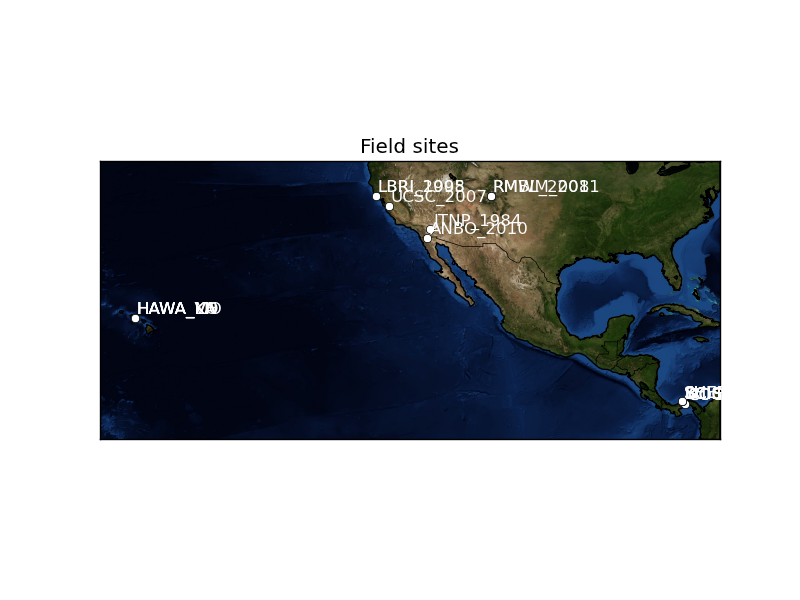
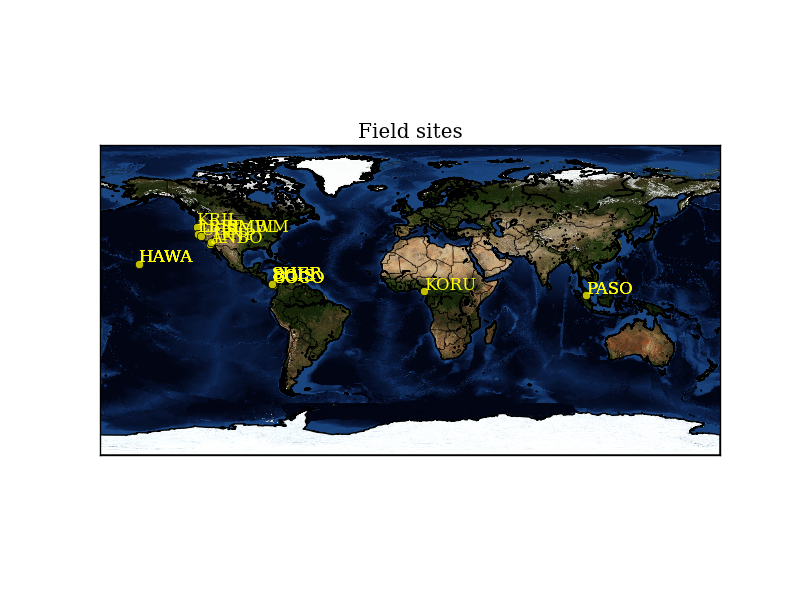
Mapping whole globe
More reliable mapping if we want to see the whole globe.

Still needs jitter-fixing.

Changed region(s): [[0.125, 0.21, 0.9062, 0.78]]

diff --git a/code/macroeco/workflow.py b/code/macroeco/workflow.py
@@ -265,7 +265,7 @@ class Parameters:
 def _clean_name(fp):
         return os.path.splitext(os.path.split(fp)[-1])[0]
 
-def make_map(datalist, mapname = None):
+def make_map(datalist, mapname = None, whole_globe = False):
     '''
     Ensures that a map of all the datasites being analyzed exists.
 
@@ -287,7 +287,7 @@ def make_map(datalist, mapname = None):
     for f in datalist:
         x = f[:-3]+'xml'
         fname, fext = os.path.splitext(os.path.split(f)[-1])
-        names.append(fname)
+        names.append(fname[:4])
         
     # Normalize so we can check for an existing file
     names.sort()
@@ -305,10 +305,19 @@ def make_map(datalist, mapname = None):
         lats.append(bounds[0])
         lons.append(bounds[1])
 
+
+
+
     print('Making map projection...')
-    m = Basemap(projection='cyl', lat_0=50, lon_0=-100,
-            llcrnrlon=min(lons)-5, llcrnrlat=min(lats)-5,
-            urcrnrlon=max(lons)+5, urcrnrlat=max(lats)+5,
+    if whole_globe:
+        m = Basemap(projection='cyl',
+                    resolution='i')
+                    
+    else:
+        print('Min and max coords found:\n'+str((min(lats),min(lons),max(lats),max(lons))))
+        m = Basemap(projection='cyl', lat_0=50, lon_0=-100,
+            llcrnrlon=min(lons)-10, llcrnrlat=min(lats)-10,
+            urcrnrlon=max(lons)+10, urcrnrlat=max(lats)+10,
             resolution='l')
 
     print('Drawing blue-marble background...')
@@ -320,11 +329,11 @@ def make_map(datalist, mapname = None):
 
     print('Plotting research sites...')
     x, y = m(lons, lats)
-    m.plot(x, y, 'wo')
+    m.plot(x, y, 'yo')
     for n, xpt, ypt in zip(names,x,y):
         if n == 'BCIS': ypt += 1 #Cleanup for crowded areas 
         if n == 'SHER': ypt += 2
-        plt.text(xpt+.5,ypt+.5,n,color='white')
+        plt.text(xpt+.5,ypt+.5,n,color='yellow')
     plt.title('Field sites')
     plt.savefig(mapname)
     plt.close()

diff --git a/code/map_sites.py b/code/map_sites.py
@@ -10,5 +10,4 @@ format_root = os.path.join(os.path.split(os.path.split(os.path.abspath(__file__)
                            'data/formatted/*/*.xml')
 files = glob.glob(format_root)
 
-
-make_map(files, 'sites_map')
+make_map(files, 'sites_map', True)
